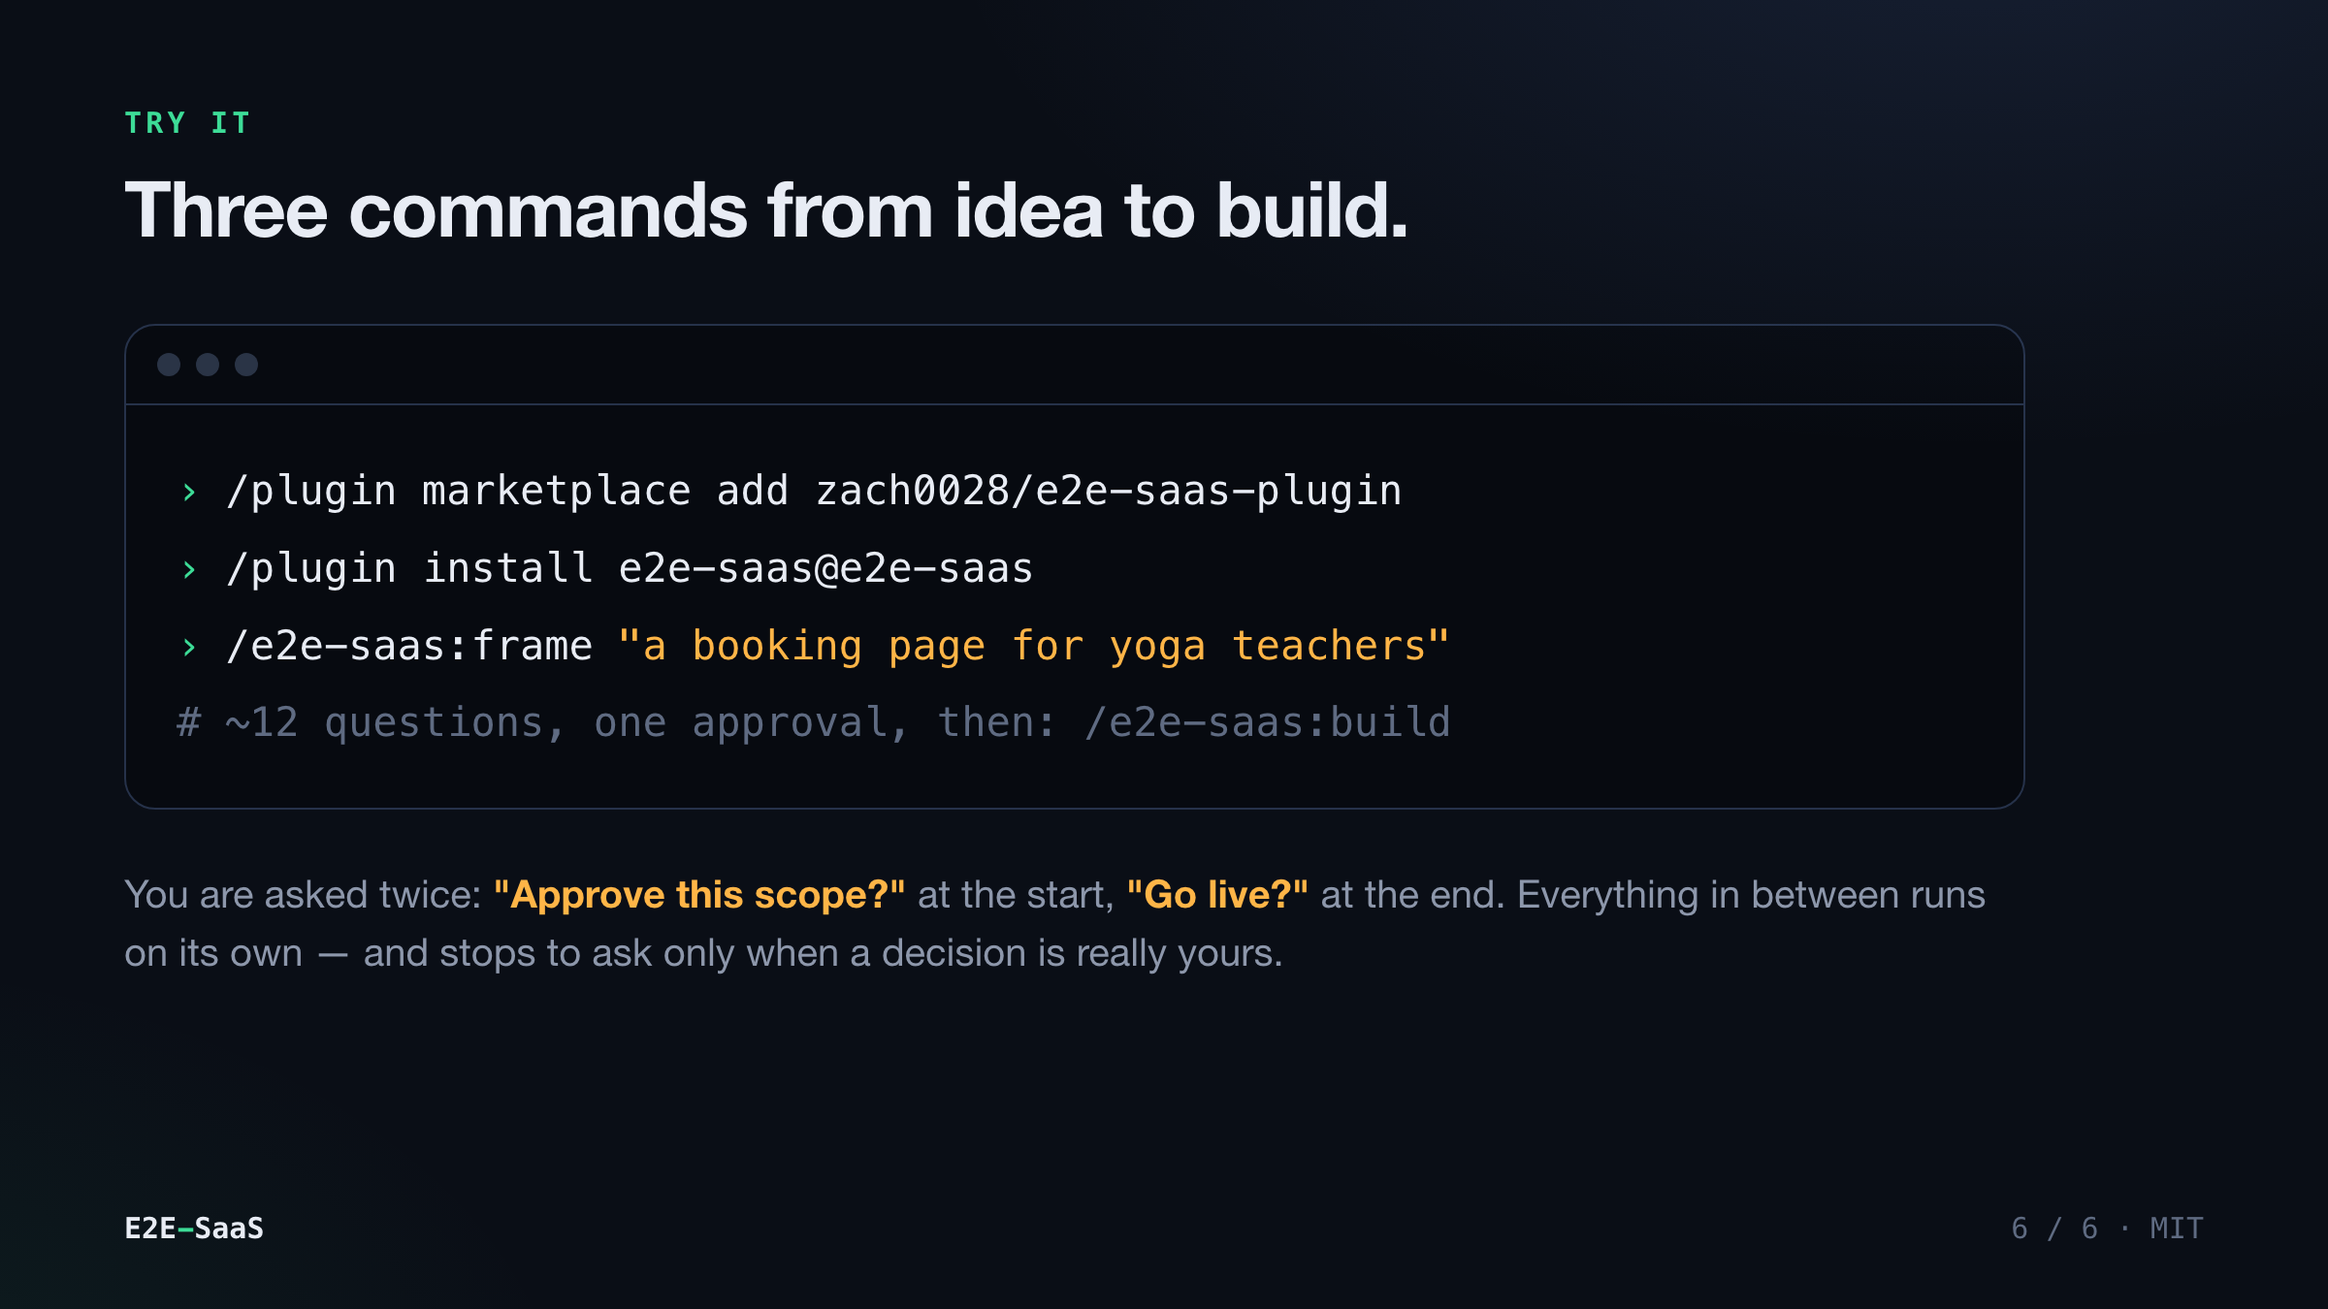
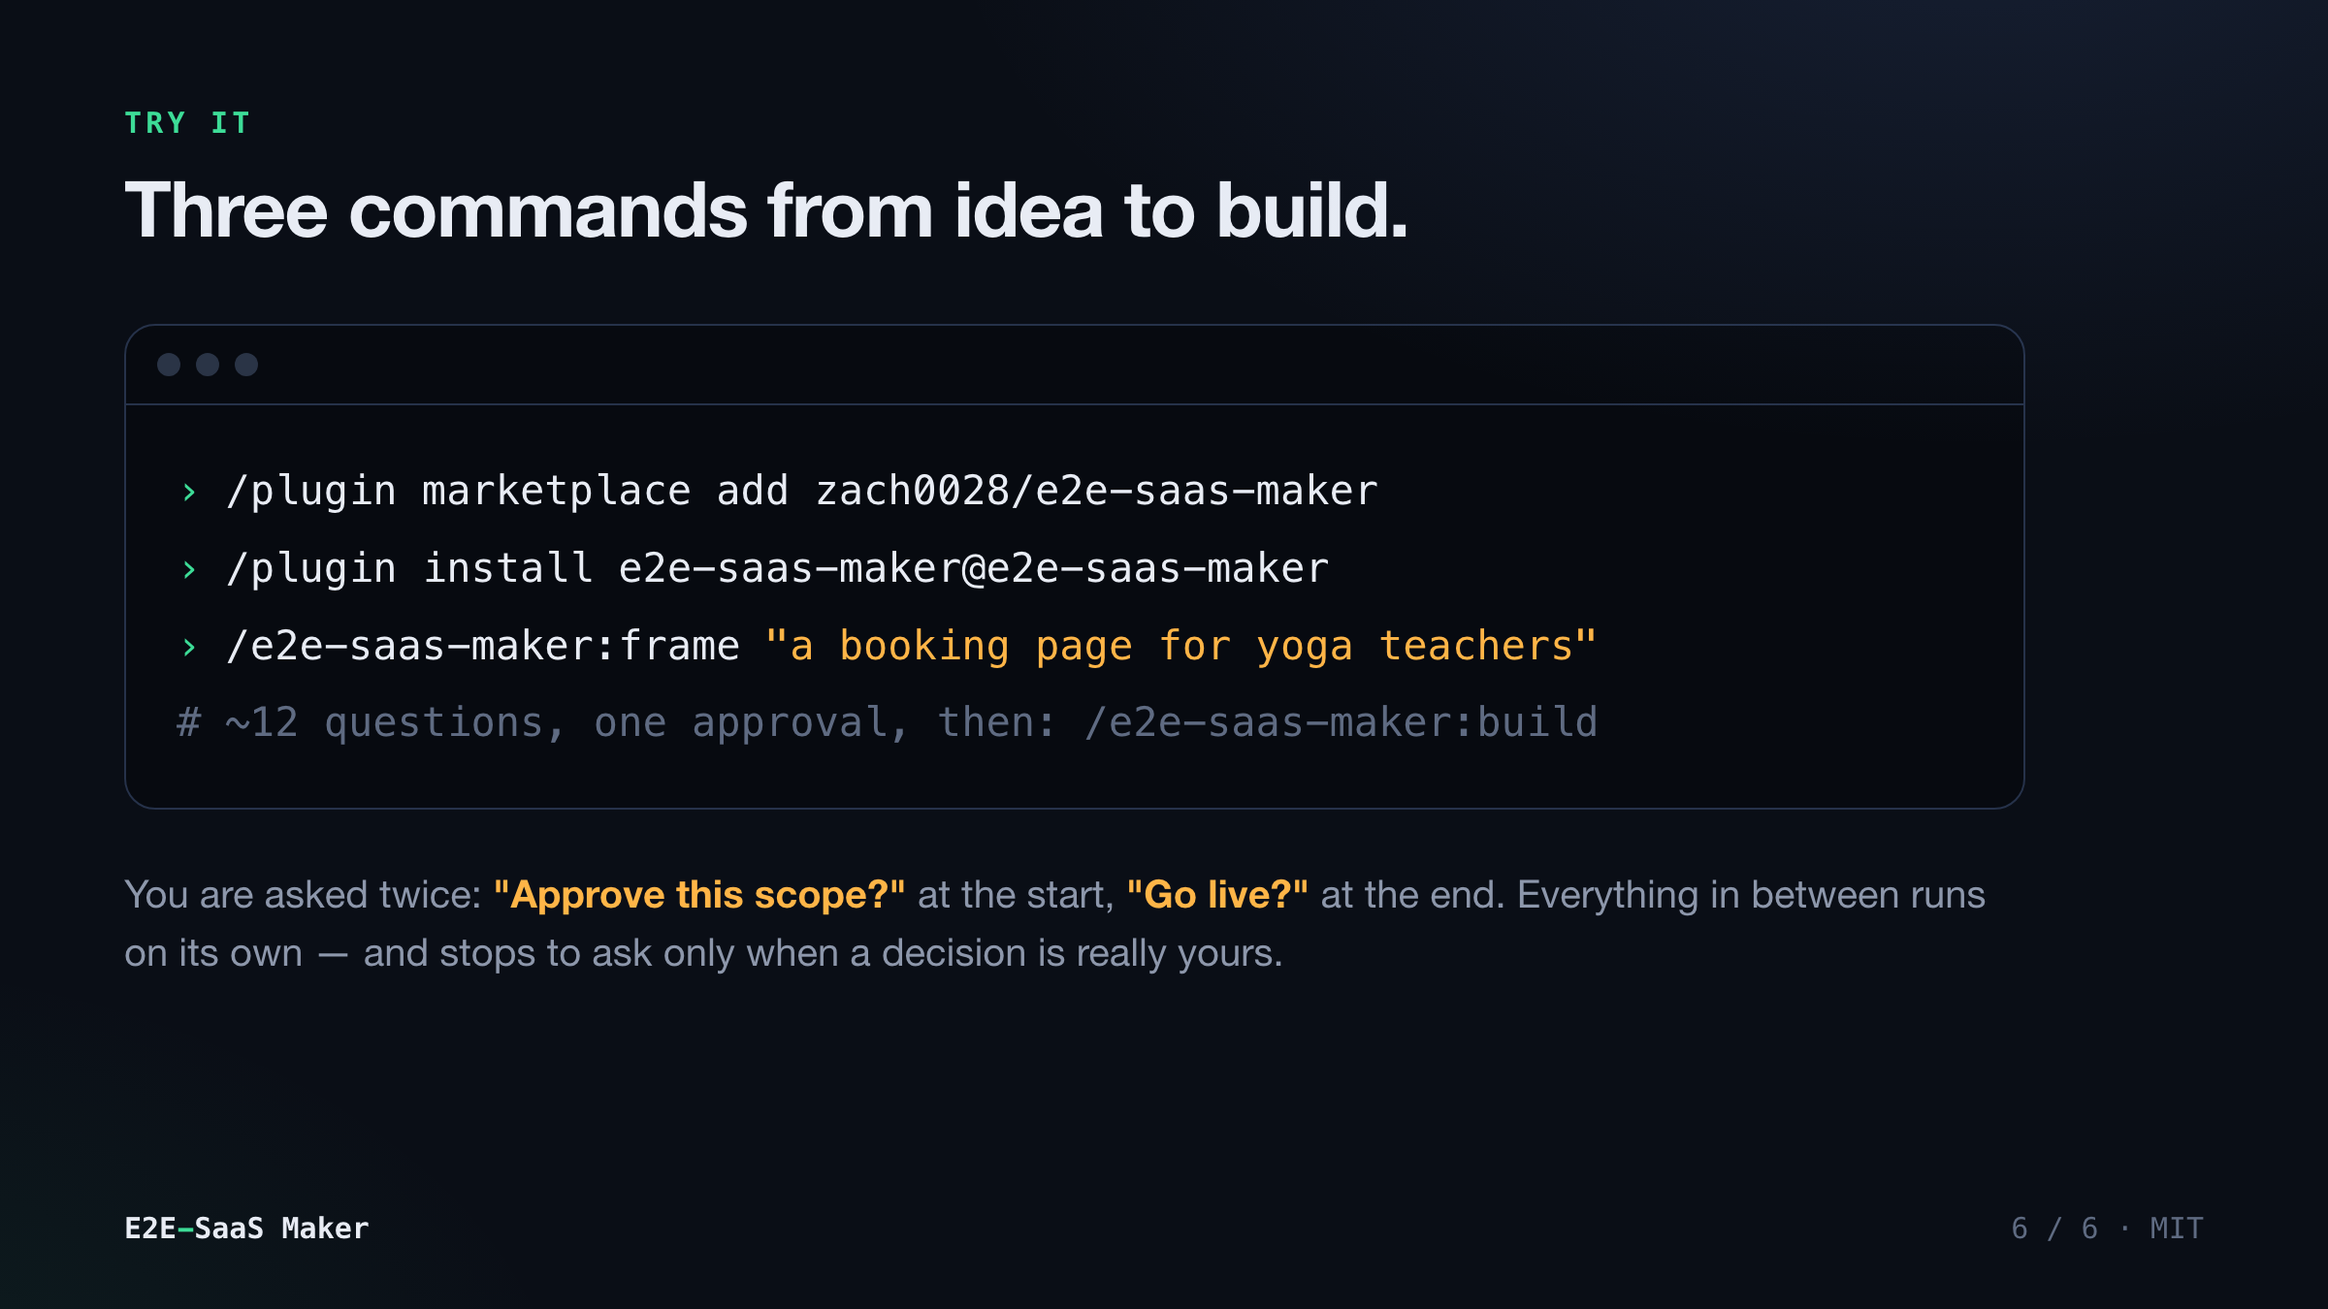
chore: rename to E2E-SaaS Maker (e2e-saas-maker)

Changed region(s): [[0.1875, 0.3733, 0.6875, 0.56], [0.125, 0.9333, 0.1562, 0.9644]]

diff --git a/docs/assets/src/6-install.html b/docs/assets/src/6-install.html
@@ -10,11 +10,11 @@
 <div class="kicker">Try it</div>
 <h2>Three commands from idea to build.</h2>
 <div class="term"><div class="bar"><i></i><i></i><i></i></div><div class="body">
-<div><span class="p">›</span> /plugin marketplace add zach0028/e2e-saas-plugin</div>
-<div><span class="p">›</span> /plugin install e2e-saas@e2e-saas</div>
-<div><span class="p">›</span> /e2e-saas:frame <span style="color:var(--amber)">"a booking page for yoga teachers"</span></div>
-<div class="cm"># ~12 questions, one approval, then: /e2e-saas:build</div>
+<div><span class="p">›</span> /plugin marketplace add zach0028/e2e-saas-maker</div>
+<div><span class="p">›</span> /plugin install e2e-saas-maker@e2e-saas-maker</div>
+<div><span class="p">›</span> /e2e-saas-maker:frame <span style="color:var(--amber)">"a booking page for yoga teachers"</span></div>
+<div class="cm"># ~12 questions, one approval, then: /e2e-saas-maker:build</div>
 </div></div>
 <p class="you">You are asked twice: <b>"Approve this scope?"</b> at the start, <b>"Go live?"</b> at the end. Everything in between runs on its own — and stops to ask only when a decision is really yours.</p>
-<div class="foot"><span class="brand">E2E<b>-</b>SaaS</span><span>6 / 6 · MIT</span></div>
+<div class="foot"><span class="brand">E2E<b>-</b>SaaS Maker</span><span>6 / 6 · MIT</span></div>
 </div></body></html>

diff --git a/docs/assets/src/3-cycle.html b/docs/assets/src/3-cycle.html
@@ -35,5 +35,5 @@
 </div>
 <div class="back"><b>Refused?</b> A critical finding sends the story back to the builder with the review as its to-do list — <i>twice at most</i>, then it comes to you. Every finished lot gets a deep multi-agent review before the next one starts.</div>
 <div class="legend"><span class="pill"><span class="dot" style="background:var(--blue)"></span>agent of this plugin</span><span class="pill"><span class="dot" style="background:var(--violet)"></span>companion plugin</span><span class="pill"><span class="dot" style="background:var(--green)"></span>script, no opinion</span></div>
-<div class="foot"><span class="brand">E2E<b>-</b>SaaS</span><span>3 / 6</span></div>
+<div class="foot"><span class="brand">E2E<b>-</b>SaaS Maker</span><span>3 / 6</span></div>
 </div></body></html>

diff --git a/docs/assets/src/5-craft.html b/docs/assets/src/5-craft.html
@@ -18,5 +18,5 @@
 <div class="c own"><h3>Design system</h3><div class="tag">shadcn/ui, generated</div><p>Tokens from your brand, contrast checked, a /design catalog, and a lint that rejects any hard-coded color.</p></div>
 <div class="c own"><h3>Production-ready</h3><div class="tag">13 conventions</div><p>Auth flows, tenancy, idempotent billing, legal pages, headers, error tracking, SEO — decided, built, verified.</p></div>
 </div>
-<div class="foot"><span class="brand">E2E<b>-</b>SaaS</span><span>5 / 6</span></div>
+<div class="foot"><span class="brand">E2E<b>-</b>SaaS Maker</span><span>5 / 6</span></div>
 </div></body></html>

diff --git a/docs/assets/src/4-bite.html b/docs/assets/src/4-bite.html
@@ -23,5 +23,5 @@ pre{font:500 14.5px/1.6 var(--mono);color:var(--text);white-space:pre;background
 <div class="col good" style="padding:14px 16px"><div class="res"><span class="ok">3 red</span> → the tests bite.<br>Integration can go on.</div></div></div>
 </div>
 <p class="quote">A test that stays green when you delete the rule it names is <em>worse than no test</em> — it hides the hole it claims to cover.</p>
-<div class="foot"><span class="brand">E2E<b>-</b>SaaS</span><span>4 / 6</span></div>
+<div class="foot"><span class="brand">E2E<b>-</b>SaaS Maker</span><span>4 / 6</span></div>
 </div></body></html>

diff --git a/docs/assets/src/2-laws.html b/docs/assets/src/2-laws.html
@@ -14,5 +14,5 @@
 <div class="law"><span class="n">04</span><h3>Scripts run the checks</h3><p>"Tests pass" from an agent proves nothing. The script runs them and pins the exact git tree.</p></div>
 <div class="law"><span class="n">05</span><h3>Main and prod stay yours</h3><p>Stories land on a build branch. Production steps wait in a ship log for your go.</p></div>
 </div>
-<div class="foot"><span class="brand">E2E<b>-</b>SaaS</span><span>2 / 6</span></div>
+<div class="foot"><span class="brand">E2E<b>-</b>SaaS Maker</span><span>2 / 6</span></div>
 </div></body></html>

diff --git a/docs/assets/src/1-hook.html b/docs/assets/src/1-hook.html
@@ -20,5 +20,5 @@
 <div class="step ag"><div class="t">Review</div><div class="w">fresh context</div></div><div class="arrow">→</div>
 <div class="step you"><div class="t">Ship</div><div class="w">you · 1 go</div></div>
 </div>
-<div class="foot"><span class="brand">E2E<b>-</b>SaaS</span><span>github.com/zach0028/e2e-saas-plugin</span></div>
+<div class="foot"><span class="brand">E2E<b>-</b>SaaS Maker</span><span>github.com/zach0028/e2e-saas-maker</span></div>
 </div></body></html>

diff --git a/skills/e2e-saas/references/build.md b/skills/e2e-saas/references/build.md
@@ -8,7 +8,7 @@ going with the rest.
 **One-shot mode (default):** run round after round in this session until `E2E status` says
 ship, or only owner items are left. State lives in files, so a context compaction or a
 restart loses nothing: run `E2E status` and carry on.
-**Unattended mode:** `/loop /e2e-saas:build` — one round per firing.
+**Unattended mode:** `/loop /e2e-saas-maker:build` — one round per firing.
 
 ## A round
 
@@ -36,13 +36,13 @@ test suites, builds, browsers).
 
 | Action | What you do |
 |---|---|
-| `plan` | `E2E workshop <id>` (note the path and the setup result; a failed setup is a blocker to report, not to ignore) → launch `e2e-saas:planner` with the worktree path and the id. |
+| `plan` | `E2E workshop <id>` (note the path and the setup result; a failed setup is a blocker to report, not to ignore) → launch `e2e-saas-maker:planner` with the worktree path and the id. |
 | `rewrite` | The research proved the story wrong (`premise: false`). Rewrite the story in `docs/e2e/stories.md` on the build branch from the evidence in `research.md` (never weaker than the PRD asks), commit, delete the worktree's `plan.md`: the next round plans it again — the planner reads the story from the build branch. |
 | `approve` | `E2E approve <id> --by loop`. A refusal is not an error: it is an owner item (see below). |
-| `build` | Launch `e2e-saas:builder` (worktree, id) → then `code-simplifier:code-simplifier` on the worktree: *"Simplify only the code changed in this worktree since `e2e/build` (`git diff e2e/build`, untracked files included). Preserve behavior exactly. Follow the project's conventions in docs/e2e/stack.md. Do not commit."* → then `E2E verify <id>`. |
-| `fix` | Launch `e2e-saas:builder` with "fix pass" in the prompt: `verify.md` (failed checks), `review.md` (refused review) or `conflict.md` (a merge to resolve) is its list → `E2E verify <id>`. |
+| `build` | Launch `e2e-saas-maker:builder` (worktree, id) → then `code-simplifier:code-simplifier` on the worktree: *"Simplify only the code changed in this worktree since `e2e/build` (`git diff e2e/build`, untracked files included). Preserve behavior exactly. Follow the project's conventions in docs/e2e/stack.md. Do not commit."* → then `E2E verify <id>`. |
+| `fix` | Launch `e2e-saas-maker:builder` with "fix pass" in the prompt: `verify.md` (failed checks), `review.md` (refused review) or `conflict.md` (a merge to resolve) is its list → `E2E verify <id>`. |
 | `verify` | `E2E verify <id>` (the code changed after its last record). |
-| `review` | Launch `e2e-saas:reviewer` (worktree, id). No answer, or no verdict lines → write `review.md` yourself with `Review status: blocked`, the concrete cause, the current `Reviewed tree:`, `Integration allowed: no`. Never infer a verdict. Once the cause is fixed, `E2E unblock <id>`. |
+| `review` | Launch `e2e-saas-maker:reviewer` (worktree, id). No answer, or no verdict lines → write `review.md` yourself with `Review status: blocked`, the concrete cause, the current `Reviewed tree:`, `Integration allowed: no`. Never infer a verdict. Once the cause is fixed, `E2E unblock <id>`. |
 | `integrate` | **At most one per round**, so a red check points at one story: `E2E integrate <id>`. A conflict leaves `conflict.md`: next round says `resume`. |
 | `resume` | `E2E resume <id>` merges the current build branch INTO the story. Clean merge → it goes back to `verify`; conflicts → they stay in the worktree and the next round sends the builder (`fix`) to resolve them. Nothing is rebuilt. |
 | `check` | `E2E check` (slow: run it in the background and wait). Every check, build and e2e included, on the integrated code. |
@@ -99,7 +99,7 @@ When every story of a lot is integrated and the check is green, before anything 
    `pr-review-toolkit:code-reviewer`, `pr-review-toolkit:silent-failure-hunter`,
    `pr-review-toolkit:pr-test-analyzer`, `pr-review-toolkit:type-design-analyzer`. Ask each
    for findings with file:line and severity, and to check the security baseline of
-   `references/craft.md`. Companion missing: launch `e2e-saas:reviewer` in lot mode instead.
+   `references/craft.md`. Companion missing: launch `e2e-saas-maker:reviewer` in lot mode instead.
 3. **Verify every finding yourself** against the code before keeping it: reviewers produce
    plausible findings too.
 4. Each real critical or major finding becomes a story (`s<next>-…`, in the hardening lot,

diff --git a/docs/how-it-works.md b/docs/how-it-works.md
@@ -1,4 +1,4 @@
-# How E2E-SaaS works
+# How E2E-SaaS Maker works
 
 **Describe your SaaS once. Agents build it end to end.**
 
@@ -25,7 +25,7 @@ a script, or a reviewer working in a fresh context.
 
 ### 1. Frame: one session with you
 
-`/e2e-saas:frame` interviews you one question at a time:
+`/e2e-saas-maker:frame` interviews you one question at a time:
 
 - the idea and the job your product does;
 - an optional reference product;
@@ -46,7 +46,7 @@ A separate agent reviews the story map against the PRD before you see it. You ap
 
 ### 2. Build: autonomous rounds
 
-`/e2e-saas:build` runs round after round until the product is done. Each story lives in its
+`/e2e-saas-maker:build` runs round after round until the product is done. Each story lives in its
 own git worktree and goes through eight steps, with a gate between each one:
 
 ![The life of one story](assets/3-cycle.png)
@@ -68,7 +68,7 @@ review. Each finding is verified by hand, and real ones become new stories.
 
 ### 3. Ship: with you
 
-`/e2e-saas:ship` runs a final review of the whole diff and walks the real product in a
+`/e2e-saas-maker:ship` runs a final review of the whole diff and walks the real product in a
 browser. It then goes through the **ship log** with you: accounts, secrets, migrations, DNS
 and webhooks, collected story by story. Nothing touches production without your go. After
 deploying, it checks the live site from the outside, because a green deploy does not prove
@@ -142,20 +142,20 @@ builder and reviewer instructions (`skills/e2e-saas/references/craft.md`). The f
 ## Install
 
 ```text
-/plugin marketplace add zach0028/e2e-saas-plugin
-/plugin install e2e-saas@e2e-saas
+/plugin marketplace add zach0028/e2e-saas-maker
+/plugin install e2e-saas-maker@e2e-saas-maker
 ```
 
 Then, in an empty folder:
 
 ```text
-/e2e-saas:frame "a booking page for yoga teachers"
-/e2e-saas:build
-/e2e-saas:status     # any time
-/e2e-saas:ship
+/e2e-saas-maker:frame "a booking page for yoga teachers"
+/e2e-saas-maker:build
+/e2e-saas-maker:status     # any time
+/e2e-saas-maker:ship
 ```
 
-For long unattended runs: `/loop /e2e-saas:build`. To stop the agents at any time, create
+For long unattended runs: `/loop /e2e-saas-maker:build`. To stop the agents at any time, create
 `docs/e2e/STOP`.
 
 **Requirements:** Claude Code, git ≥ 2.38, Python ≥ 3.9 (standard library only). Run
@@ -202,7 +202,7 @@ picks up exactly where the files are.
 .claude-plugin/        plugin.json (dependencies), marketplace.json
 skills/e2e-saas/       the skill: SKILL.md, references/, templates/, scripts/e2e.py (+ tests)
 agents/                planner, builder, reviewer, story-reviewer
-commands/              /e2e-saas:frame, build, status, ship
+commands/              /e2e-saas-maker:frame, build, status, ship
 docs/assets/           the illustrations (HTML sources in docs/assets/src/)
 ```
 

diff --git a/skills/e2e-saas/SKILL.md b/skills/e2e-saas/SKILL.md
@@ -58,10 +58,10 @@ No phase given: run `E2E status` and continue from what it says (no `docs/e2e/` 
 
 | Agent | Role |
 |---|---|
-| `e2e-saas:planner` | Verifies the story's premise against real code, writes `research.md` and `plan.md`. No code. |
-| `e2e-saas:builder` | Implements an approved plan test-first, following `references/craft.md`. Never commits. |
-| `e2e-saas:reviewer` | Fresh-context review: references opened, plan vs diff, tests made to fail on purpose. Writes the verdict. |
-| `e2e-saas:story-reviewer` | Reviews the story map against the PRD before anything is built. Read-only. |
+| `e2e-saas-maker:planner` | Verifies the story's premise against real code, writes `research.md` and `plan.md`. No code. |
+| `e2e-saas-maker:builder` | Implements an approved plan test-first, following `references/craft.md`. Never commits. |
+| `e2e-saas-maker:reviewer` | Fresh-context review: references opened, plan vs diff, tests made to fail on purpose. Writes the verdict. |
+| `e2e-saas-maker:story-reviewer` | Reviews the story map against the PRD before anything is built. Read-only. |
 
 Companion plugins, installed with this one, do the craft work between them:
 

diff --git a/README.md b/README.md
@@ -1,4 +1,4 @@
-# E2E-SaaS
+# E2E-SaaS Maker
 
 **Describe your SaaS once. Agents build it end to end.**
 
@@ -17,8 +17,8 @@ You are asked twice: **approve the scope** at the start, **go live** at the end.
 ## Install
 
 ```text
-/plugin marketplace add zach0028/e2e-saas-plugin
-/plugin install e2e-saas@e2e-saas
+/plugin marketplace add zach0028/e2e-saas-maker
+/plugin install e2e-saas-maker@e2e-saas-maker
 ```
 
 The companion plugins come with it: `superpowers` (TDD), `code-simplifier`,
@@ -29,12 +29,12 @@ The companion plugins come with it: `superpowers` (TDD), `code-simplifier`,
 In an empty folder:
 
 ```text
-/e2e-saas:frame "a booking page for yoga teachers"
-/e2e-saas:build
-/e2e-saas:ship
+/e2e-saas-maker:frame "a booking page for yoga teachers"
+/e2e-saas-maker:build
+/e2e-saas-maker:ship
 ```
 
-`/e2e-saas:status` shows where the build is, at any time.
+`/e2e-saas-maker:status` shows where the build is, at any time.
 
 ## What you get
 

diff --git a/skills/e2e-saas/references/ship.md b/skills/e2e-saas/references/ship.md
@@ -4,7 +4,7 @@ When `E2E status` says everything is integrated, checked and reviewed:
 
 1. **The full check, fresh:** `E2E check` on the build branch, green required.
 2. **The final review** of `git diff main...e2e/build`, in parallel, read-only:
-   `e2e-saas:reviewer` in ship mode (coherence between stories, duplicates, what the PRD asked
+   `e2e-saas-maker:reviewer` in ship mode (coherence between stories, duplicates, what the PRD asked
    that nobody built, the graveyard respected) and `pr-review-toolkit:code-reviewer` +
    `pr-review-toolkit:silent-failure-hunter`. Verify each finding; a critical one becomes a
    story and the build goes on. The reviewer's production-baseline table (every "in" item of

diff --git a/skills/e2e-saas/references/frame.md b/skills/e2e-saas/references/frame.md
@@ -120,7 +120,7 @@ Order stories by dependency; `E2E status` reports any story that depends on a la
 
 ## 4. Story review — fresh context
 
-Launch `e2e-saas:story-reviewer` with the project path. It has no write tool: write its
+Launch `e2e-saas-maker:story-reviewer` with the project path. It has no write tool: write its
 report as-is in `docs/e2e/story-review.md`, ending with `Max severity:` and `Stories ready:`.
 Fix the stories yourself (never the reviewer), run it again until `Stories ready: yes`.
 
